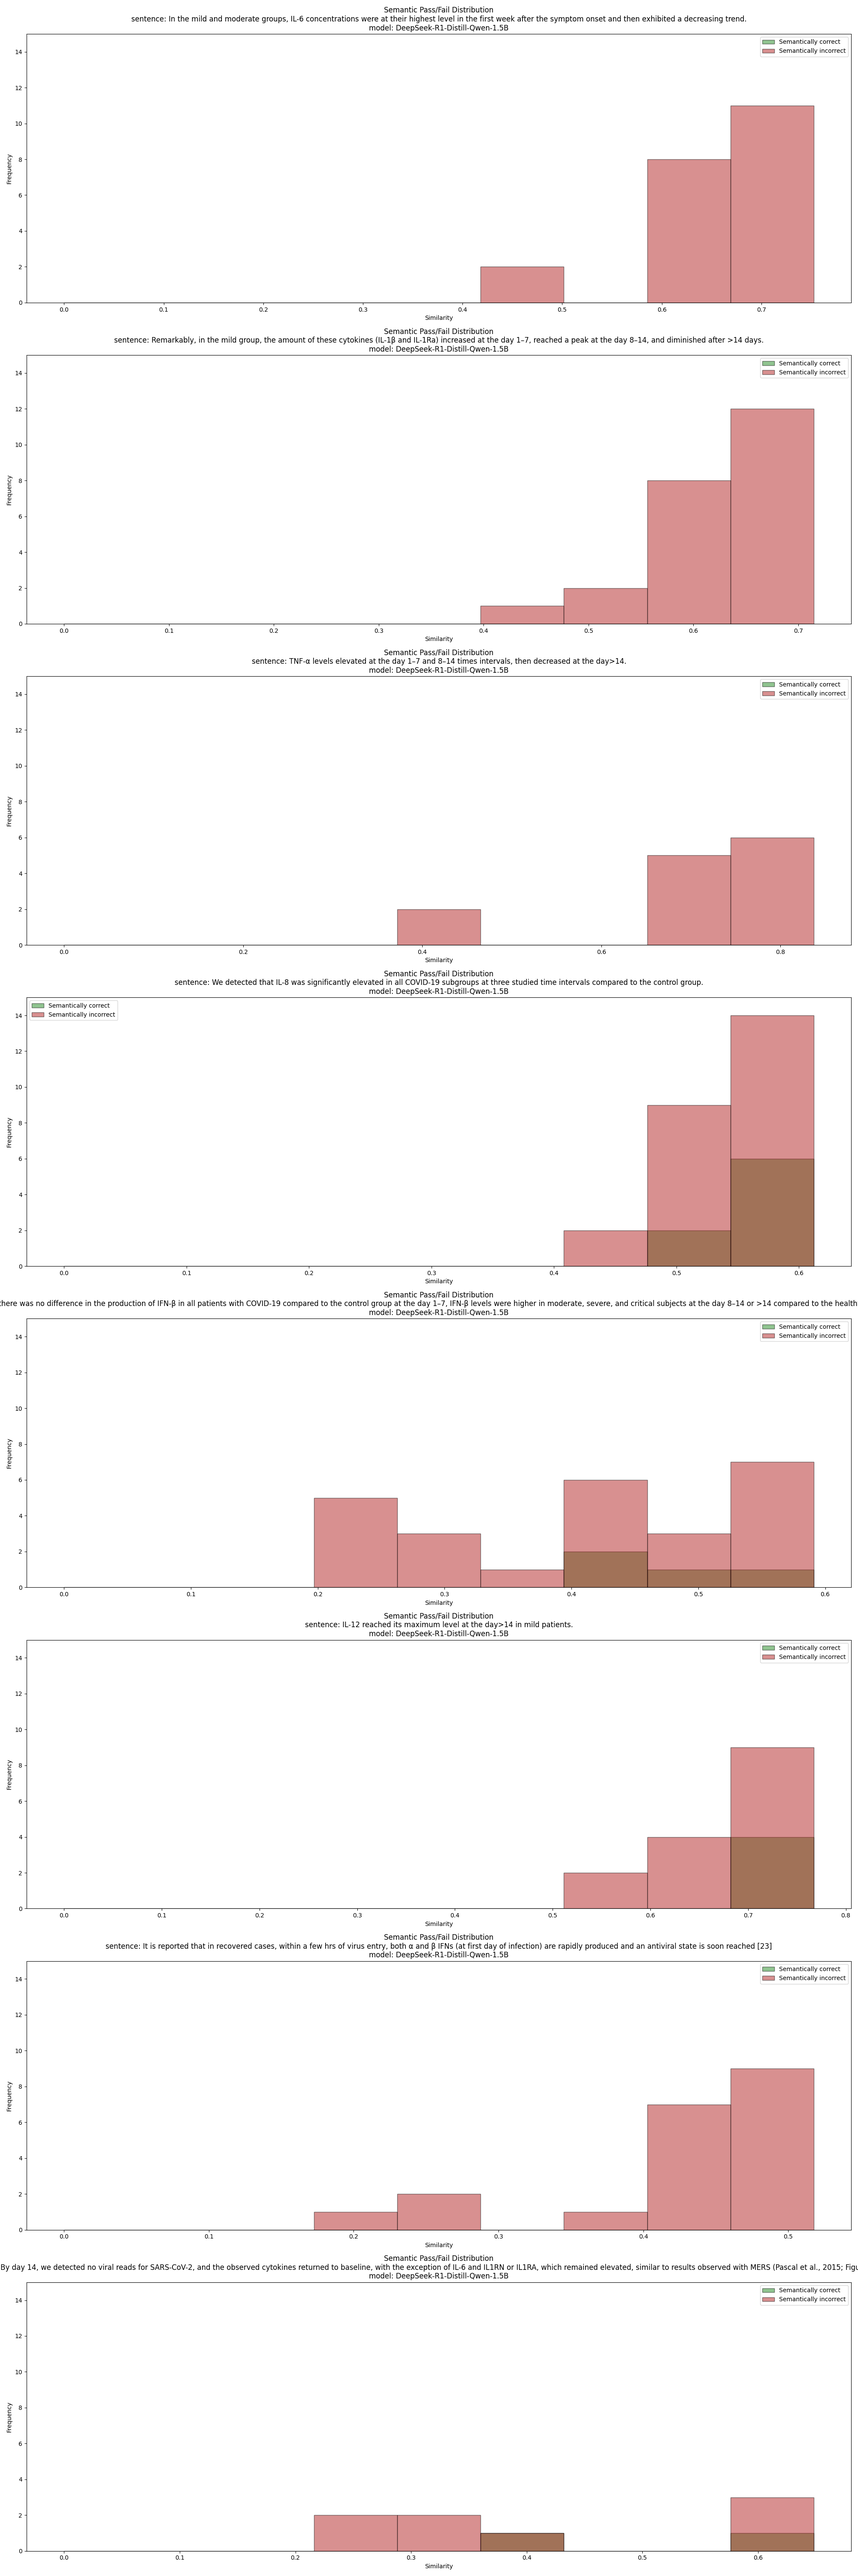
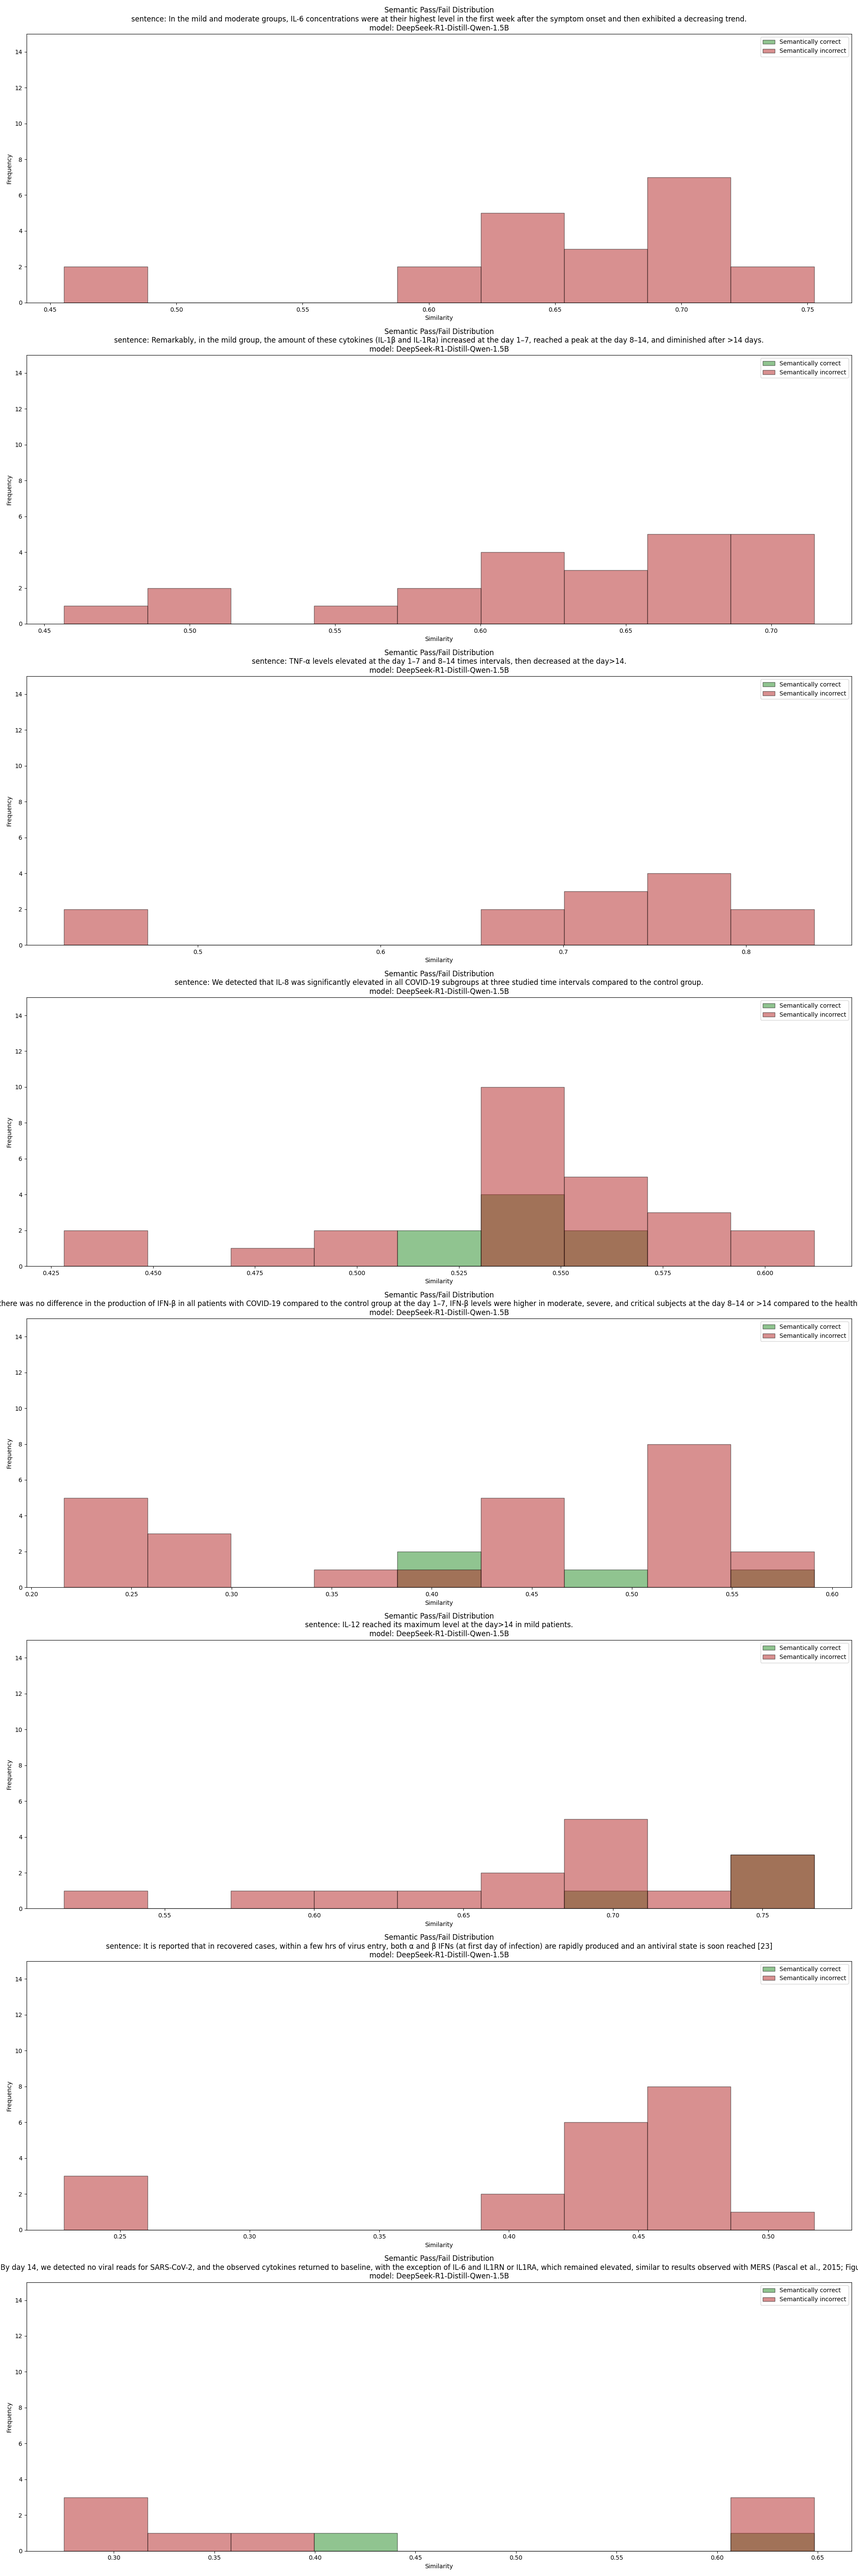
almost fixed the histograms

diff --git a/ollama_container/heatmap_generators/generate_semantic_distribution_plots.py b/ollama_container/heatmap_generators/generate_semantic_distribution_plots.py
@@ -50,15 +50,15 @@ for _id, sentence in enumerate(res.keys()): # key is sentence
     
     max_sim = 0
     min_sim = 0
-    first_time = True
+    first_time_max = first_time_min = True
 
     for stl, sim, choice in res[sentence]:
-        if first_time or sim > max_sim:
+        if first_time_max or sim > max_sim:
             max_sim = sim
-            first_time = False
-        if first_time or sim < min_sim:
+            first_time_max = False
+        if first_time_min or sim < min_sim:
             min_sim = sim
-            first_time = False
+            first_time_min = False
 
         if choice is None or choice == '':
             continue
